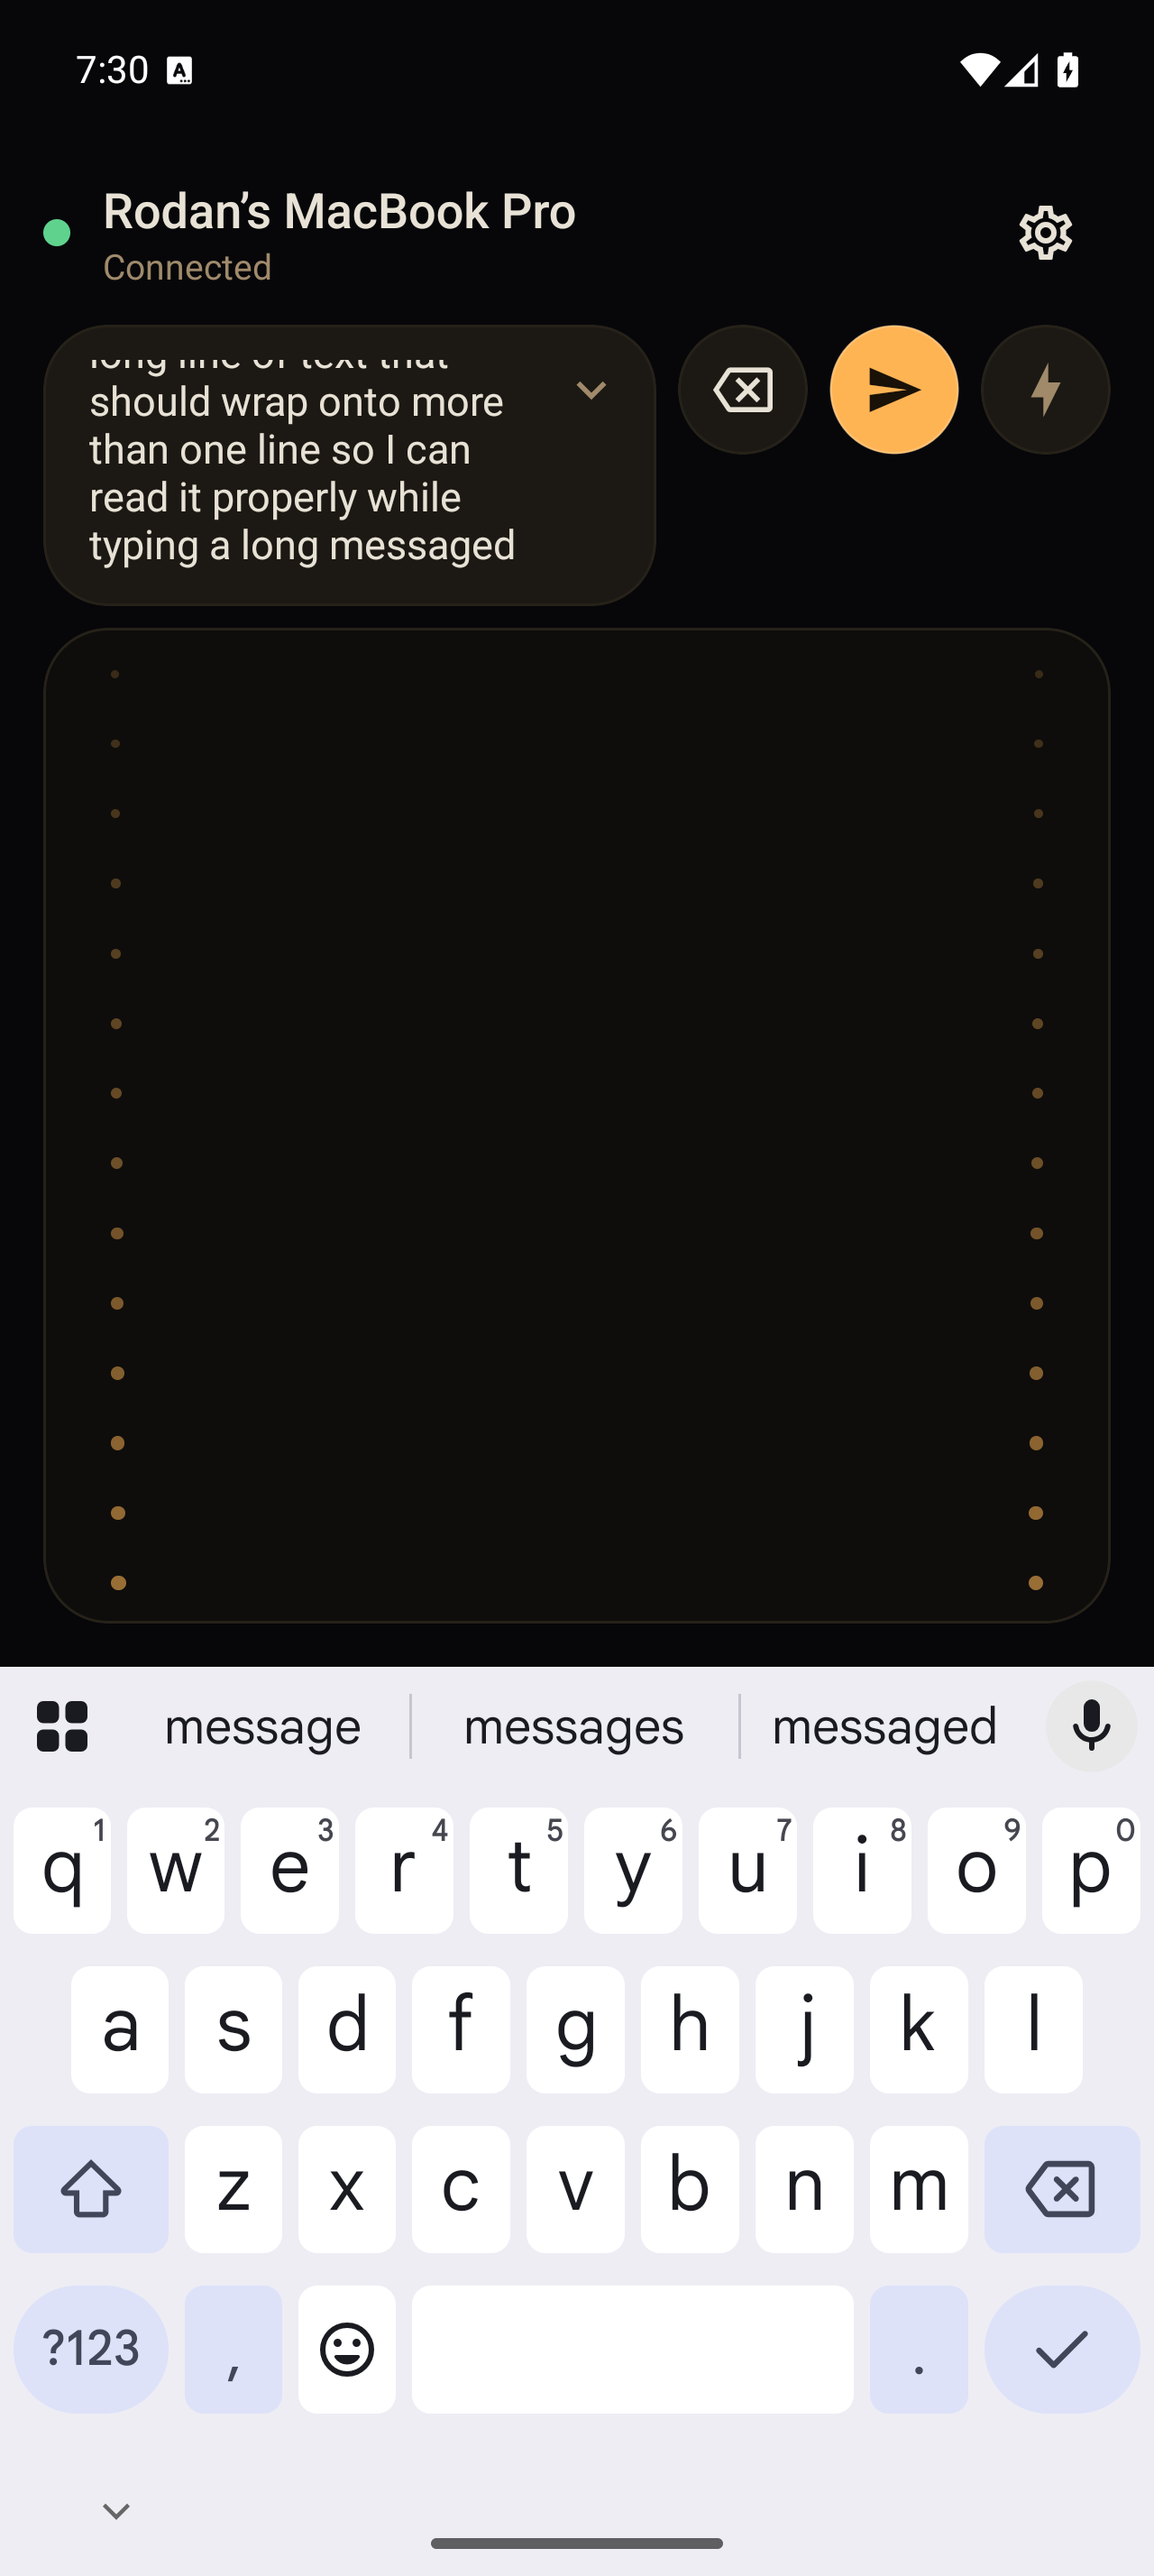
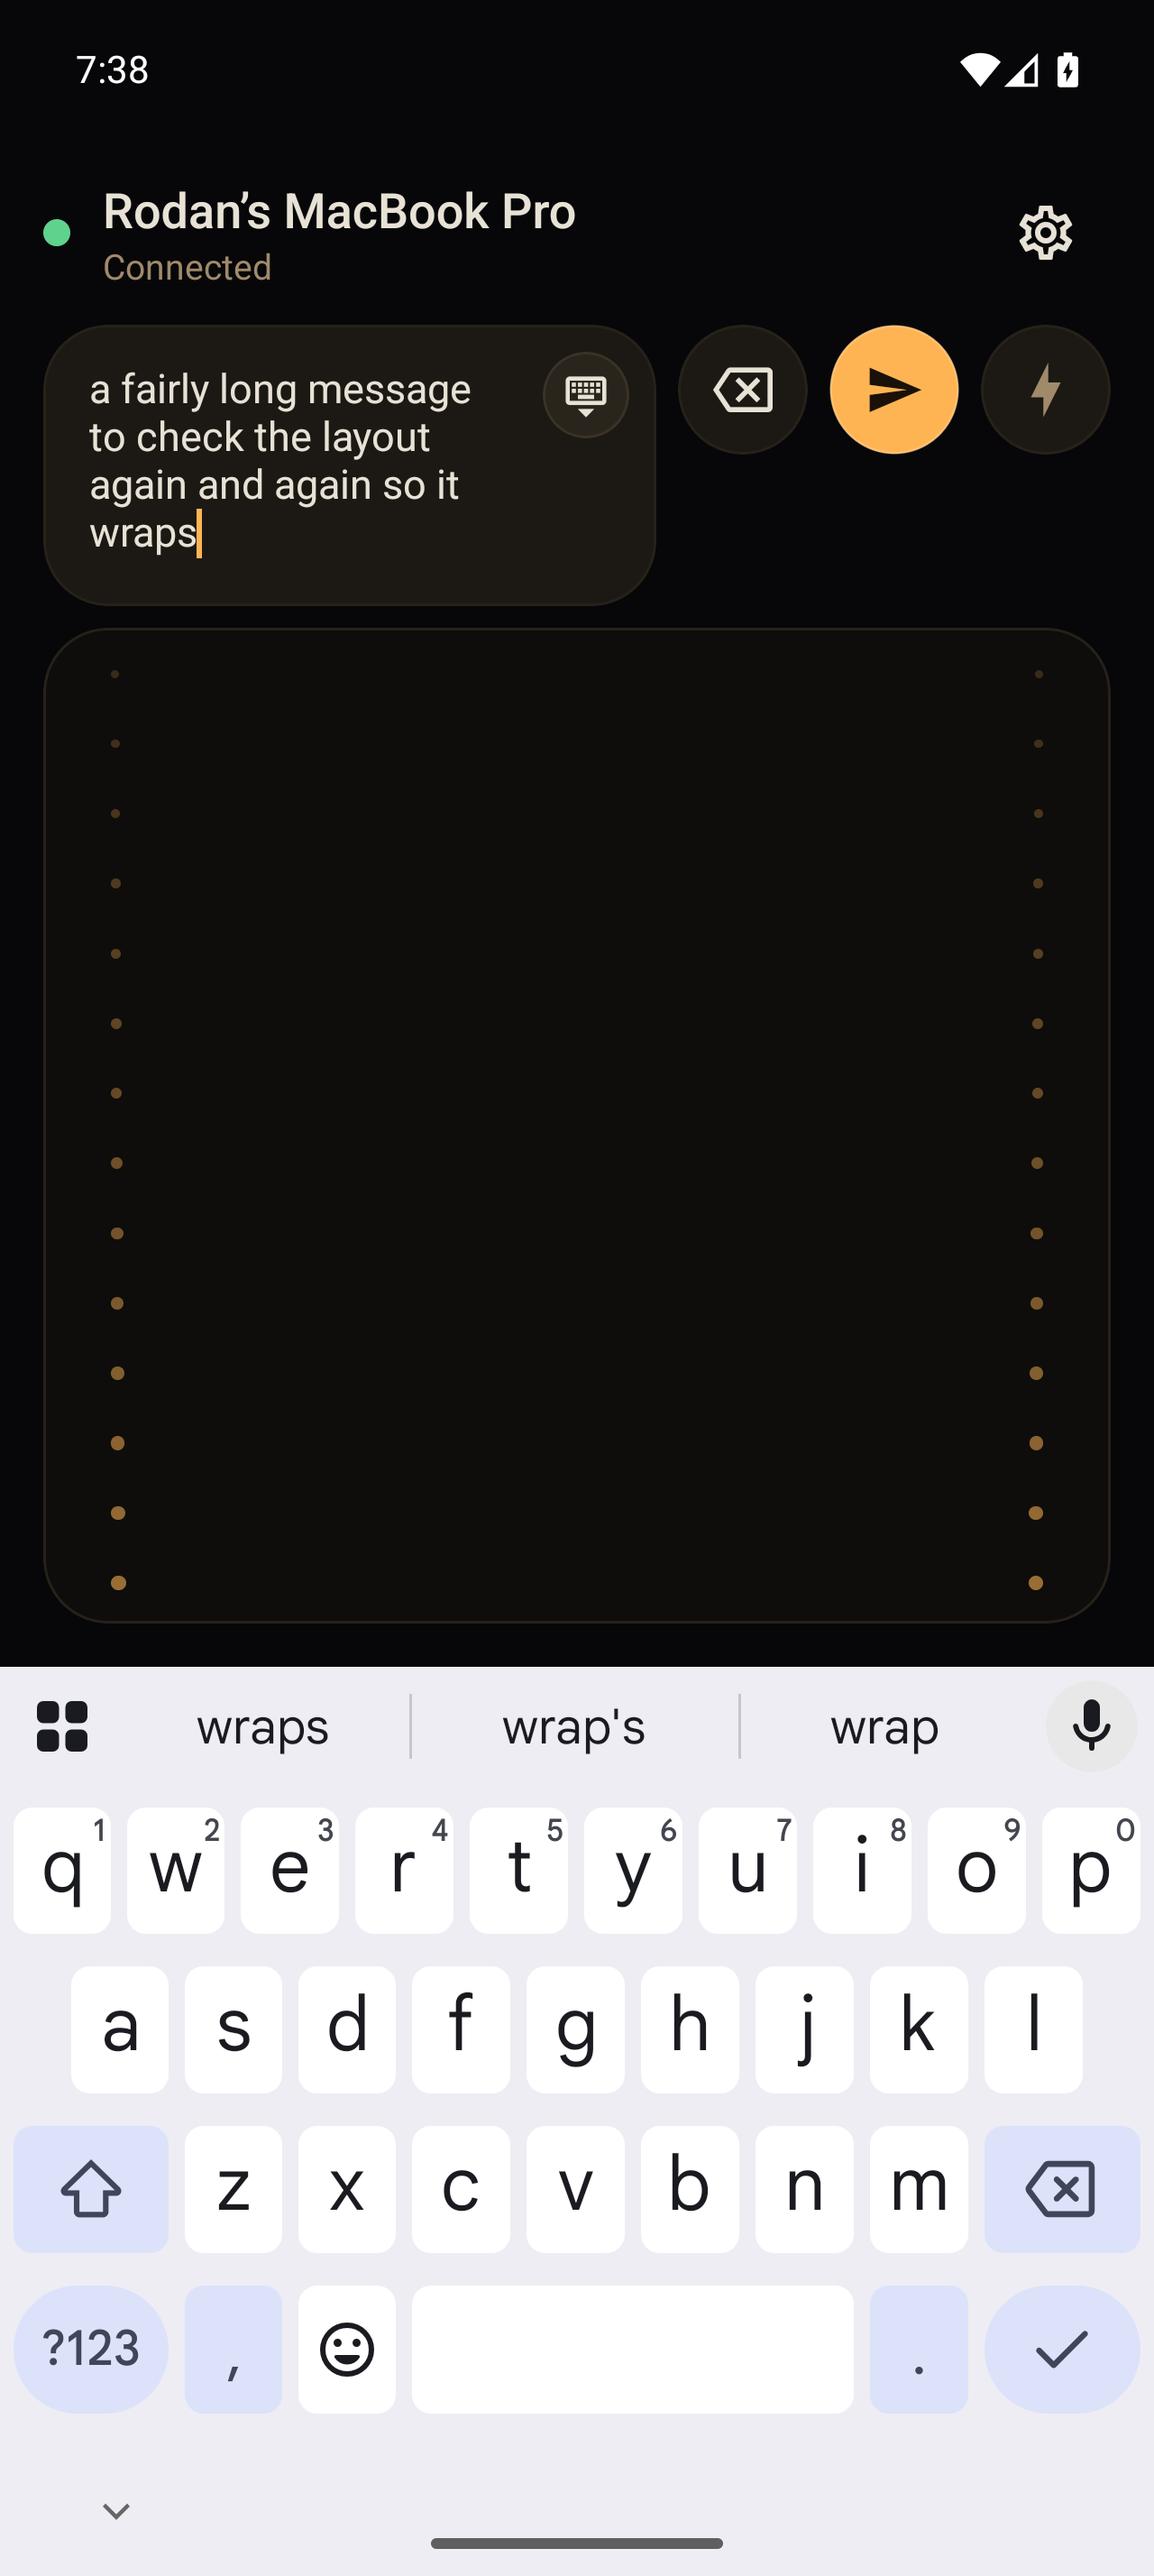
feat(app): clearer in-app way out of typing (filled keyboard-arrow control)
Claude-Session: https://claude.ai/code/session_01GjmifBaFruAr4AHSmS1LiQ

diff --git a/app/src/ui/KeyboardBar.tsx b/app/src/ui/KeyboardBar.tsx
@@ -95,7 +95,9 @@ export function KeyboardBar({ send, onTyping }: Props) {
       />
       {focused ? (
         <Pressable accessibilityRole="button" accessibilityLabel="Hide keyboard" onPress={() => Keyboard.dismiss()} hitSlop={6} style={s.hide}>
-          <MaterialCommunityIcons name="chevron-down" size={22} color={color.textMuted} />
+          <View style={s.hideDot}>
+            <MaterialCommunityIcons name="keyboard-close-outline" size={18} color={color.text} />
+          </View>
         </Pressable>
       ) : null}
       </View>
@@ -125,9 +127,11 @@ const s = StyleSheet.create({
   fieldWrap: { flex: 1 },
   // One line when idle; a fixed four-line height while typing (it scrolls inside), so it never resizes as you type.
   field: { height: H, borderRadius: 24, paddingLeft: space.m, paddingRight: space.m, paddingVertical: 12, backgroundColor: color.surface, borderWidth: 1, borderColor: color.rim, textAlignVertical: 'center', ...t.body },
-  fieldOpen: { height: 104, paddingRight: 44, textAlignVertical: 'top' },
+  fieldOpen: { height: 104, paddingRight: 52, textAlignVertical: 'top' },
   fieldLive: { borderColor: color.amber },
-  hide: { position: 'absolute', right: 6, top: 4, width: 36, height: 40, alignItems: 'center', justifyContent: 'center' },
+  hide: { position: 'absolute', right: 8, top: 8, width: 36, height: 36, alignItems: 'center', justifyContent: 'center' },
+  // A clear filled circle: the app's own way out of typing, so the Back key is never needed.
+  hideDot: { width: 32, height: 32, borderRadius: 16, backgroundColor: color.surfacePressed, borderWidth: 1, borderColor: color.rimStrong, alignItems: 'center', justifyContent: 'center' },
   round: { width: H, height: H, borderRadius: H / 2, alignItems: 'center', justifyContent: 'center', backgroundColor: color.surface, borderWidth: 1, borderColor: color.rim },
   liveOn: { borderColor: color.amber },
   sendReady: { backgroundColor: color.amber, borderColor: 'rgba(255,255,255,0.18)' },

diff --git a/docs/design-brief.md b/docs/design-brief.md
@@ -52,7 +52,7 @@ Three swipeable pages (dots above the trackpad show which one):
 - **Main:** the media deck and the D-pad, icons only. No words on the main keys (words made it noisy).
 - **Browser:** six equal, big, text-only keys (Back, Forward, Reload, Close tab, Previous tab, Next tab), one text size (18 sp) so none looks smaller. Close tab is outlined in red but is a plain tap like the others (a hold gesture was confusing and read as "not working").
 - **Browser & slides (page 2, swipe):** sections BROWSER (Back, Forward, Reload, Prev tab, Next tab, Close tab) and SLIDES (Previous / Next slide); words only, one text size, centred in the same height as page 1 so the trackpad never changes size. Two small dots (own 14 dp row, no labels) show there are two pages. Previous/Next track live on the Remote page beside volume. Left/Right click keys were removed as redundant.
-- **Typing bar:** one row of the field plus three round 48 dp buttons that never change: Backspace, Enter (becomes the amber Send once text is typed), Live (amber when on). While typing the field is a fixed four-line height (scrolls inside, so it never resizes), a small chevron inside it hides the keyboard, the controls collapse and the whole screen lifts above the keyboard so the trackpad stays usable. Wording says "computer", never "Mac".
+- **Typing bar:** one row of the field plus three round 48 dp buttons that never change: Backspace, Enter (becomes the amber Send once text is typed), Live (amber when on). While typing the field is a fixed four-line height (scrolls inside, so it never resizes), a filled keyboard-arrow circle inside it hides the keyboard (the app's own way out, no Back key needed), Backspace/Enter/Live stay available in every state, the controls collapse and the whole screen lifts above the keyboard so the trackpad stays usable. Wording says "computer", never "Mac".
 - Settings lists the trackpad gestures.
 - Compact layout keeps the trackpad large: 48 dp keys, 52 dp header, page dots sit in the gap above the trackpad and cost no height.
 - Rule from the owner for adding anything: only simple, reliable actions. Deliberately NOT added: three-finger swipe shortcuts (OnePlus system gestures, accidental triggers), Mission Control (needs a new protocol command and depends on a macOS shortcut that may be off; revisit after a 30 s on-device check), a mouse Hold toggle (can desync), slide First/Last (inconsistent across apps), a Stop key (not available in enigo).
